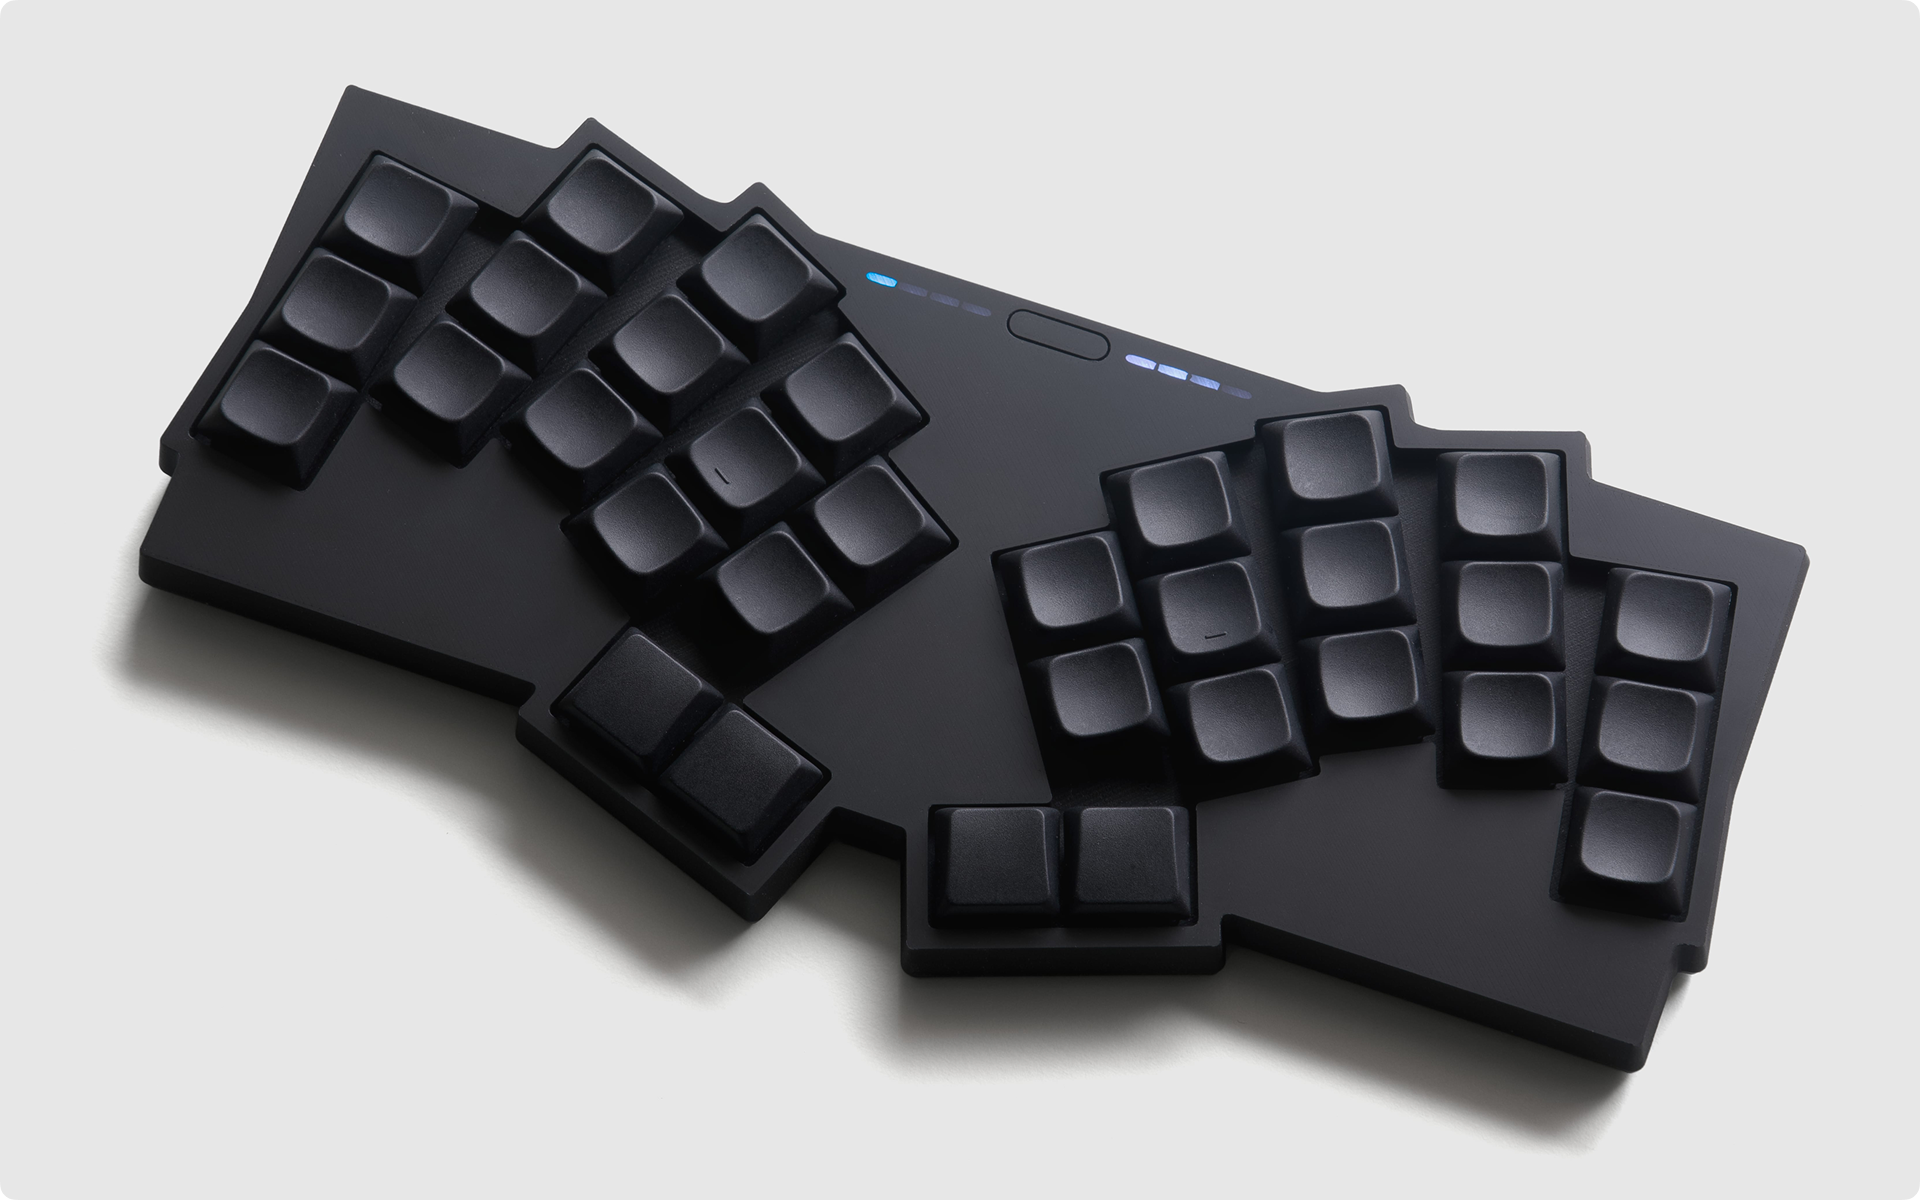
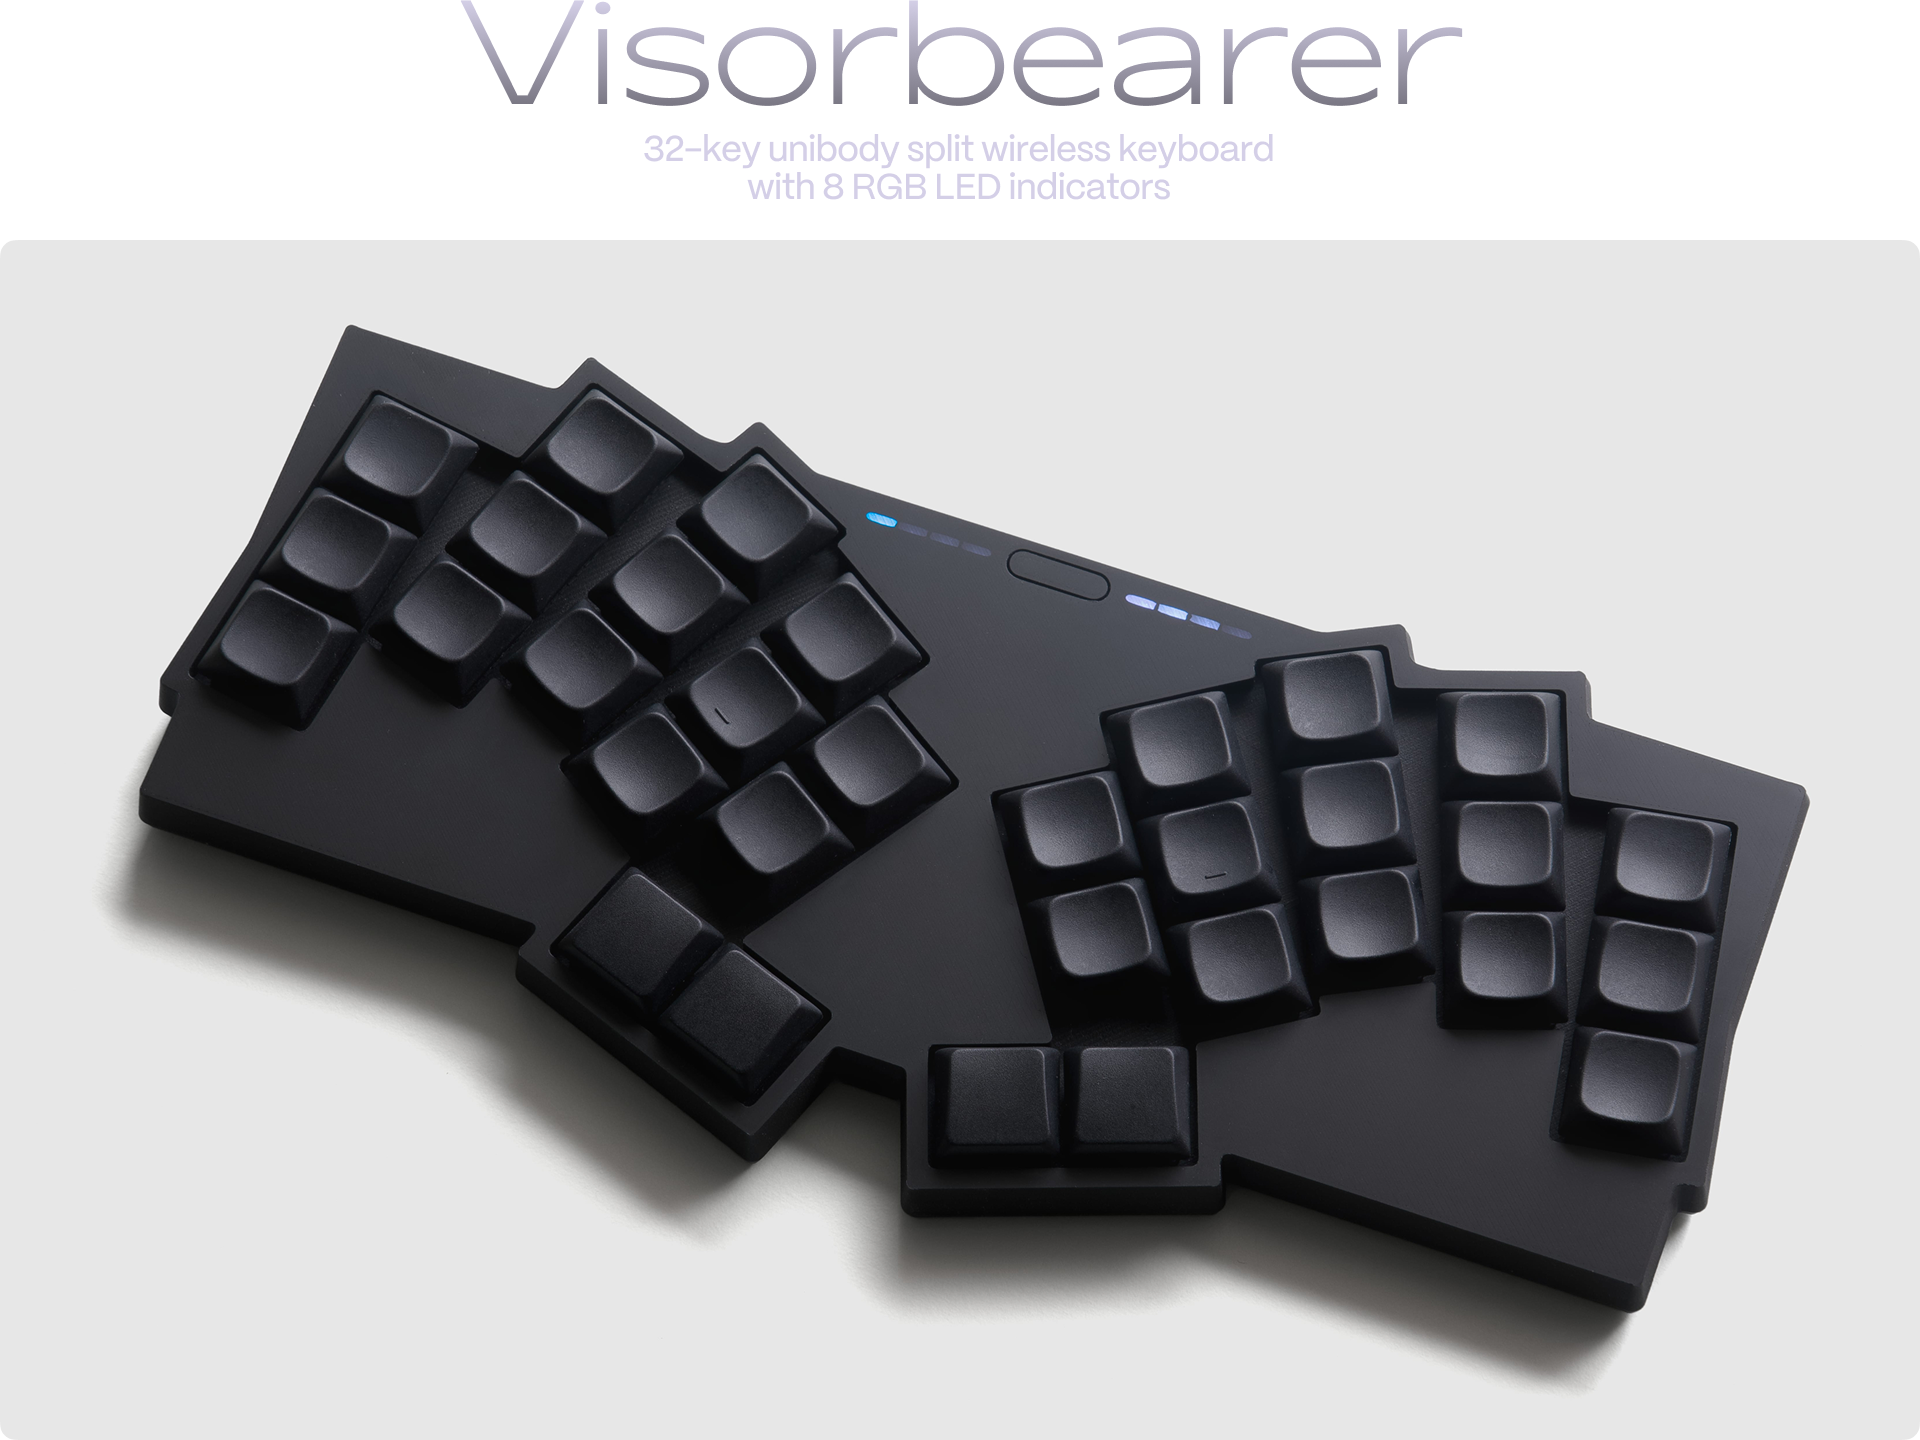
new hero image

diff --git a/README.md b/README.md
@@ -1,9 +1,3 @@
-<picture>
-  <source media="(prefers-color-scheme: dark)" srcset="./docs/images/visorbearer-heading-dark.png">
-  <source media="(prefers-color-scheme: light)" srcset="./docs/images/visorbearer-heading-light.png">
-  <img alt="Visorbearer Title and Description" src="./docs/images/visorbearer-heading-dark.png">
-</picture>
-
 ![Visorbearer keyboard](docs/images/visorbearer-hero.png)
 
 https://github.com/user-attachments/assets/812049e3-29ce-48d4-8fe3-20bf21285e64
